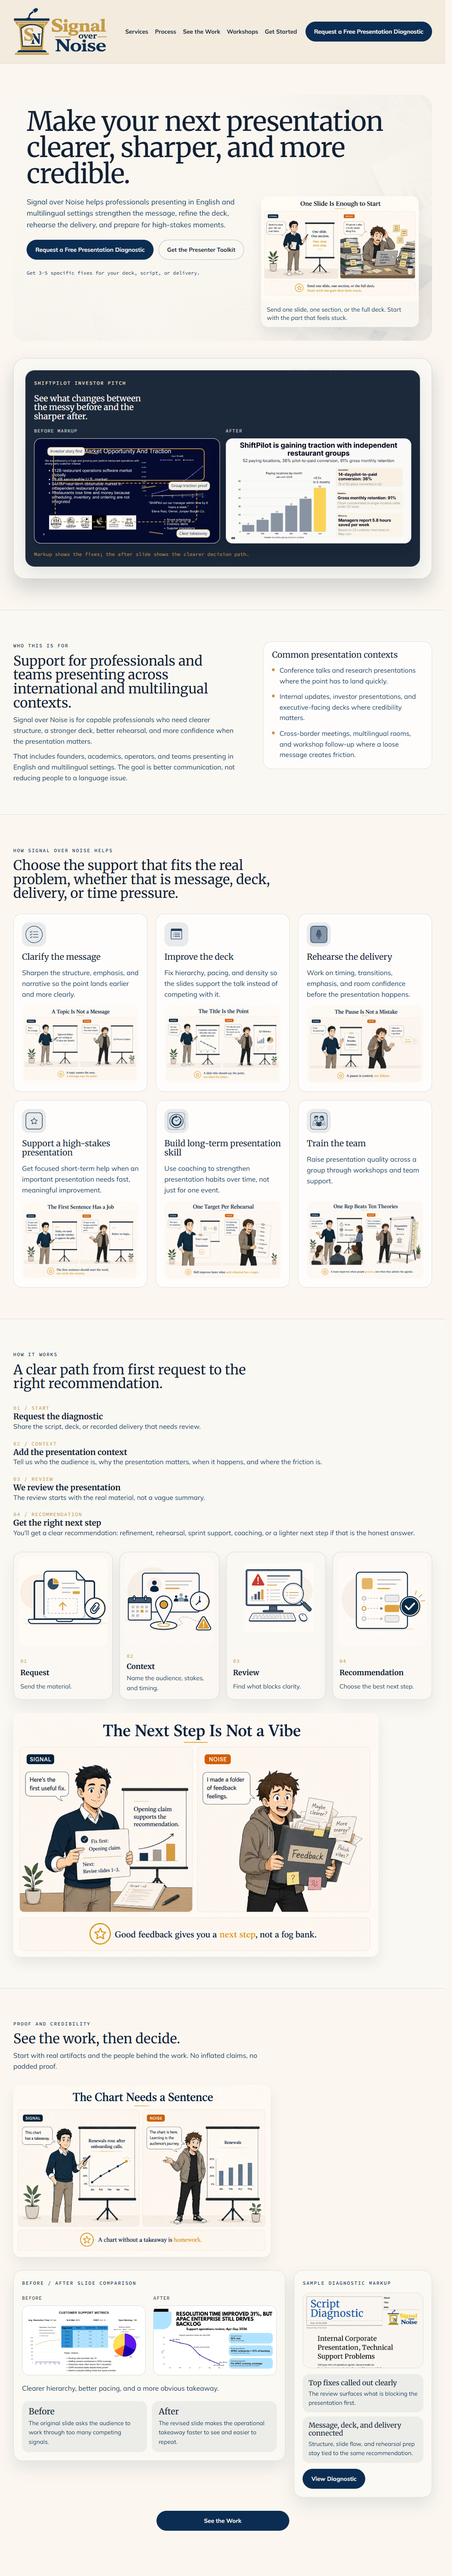
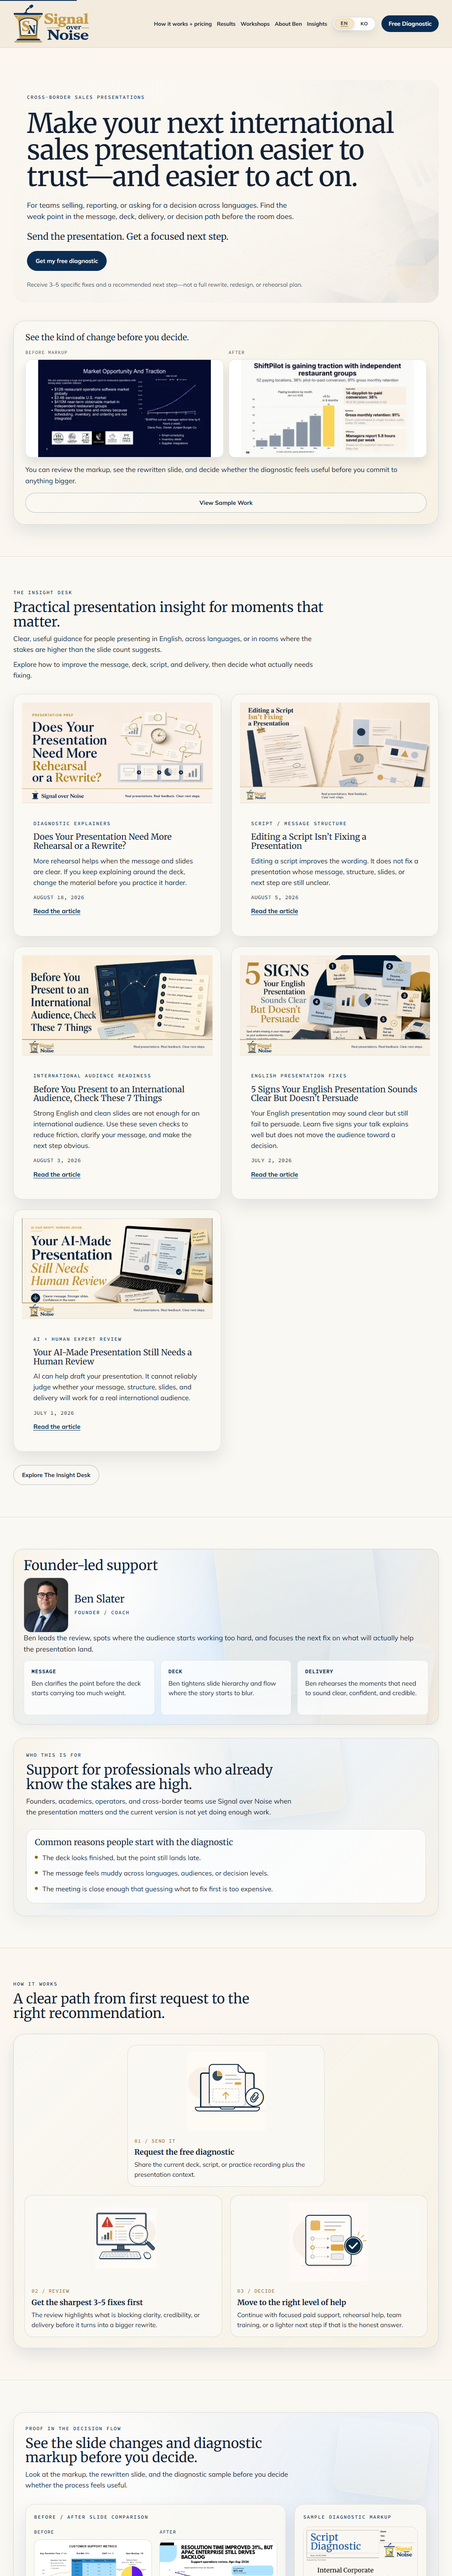
Publish AI presentation decision clarity insight

Changed region(s): [[0.0312, 0.0, 0.9679, 1.0], [0.843, 0.965, 0.8742, 0.9961]]

diff --git a/assets/styles.css b/assets/styles.css
@@ -819,13 +819,11 @@
     box-shadow: 0 14px 32px rgba(11, 45, 83, 0.06);
   }
 
-  .section-stage--light .eyebrow--gold-deep {
-    color: var(--brand-blue-deep);
-  }
-
-  .section-stage--light .section-title,
-  .section-stage--light .section-copy {
-    color: var(--text-primary);
+  aside.cta-band.section-stage--light .eyebrow,
+  aside.cta-band.section-stage--light .eyebrow--gold-deep,
+  aside.cta-band.section-stage--light h2.section-title,
+  aside.cta-band.section-stage--light p.section-copy {
+    color: #0b2d53 !important;
   }
 
   .section-stage--light::before {
@@ -1295,6 +1293,13 @@
   .band-copy,
   .meta-copy {
     color: var(--text-secondary);
+  }
+
+  main .cta-band.section-stage--light .eyebrow,
+  main .cta-band.section-stage--light .eyebrow--gold-deep,
+  main .cta-band.section-stage--light .section-title,
+  main .cta-band.section-stage--light .section-copy {
+    color: #0b2d53 !important;
   }
 
   .hero-copy {

diff --git a/content/insights/ai-presentation-decision-visible.md b/content/insights/ai-presentation-decision-visible.md
@@ -1,0 +1,269 @@
+---
+title: "AI Can Make Your Presentation Fluent Without Making the Decision Visible"
+description: "A presentation can sound polished and still leave the audience unsure what to decide, approve, or do. Check the decision path before polishing the wording."
+date: 2026-09-21
+updated:
+draft: false
+slug: ai-presentation-decision-visible
+
+tags:
+  - insights
+
+category: "AI + Human Expert Review"
+
+topics:
+  - ai-presentation-review
+  - presentation-decision-clarity
+  - pitch-and-proposal-clarity
+  - human-expert-review
+
+audience:
+  primary: "Professionals preparing high-stakes presentations in English or across languages"
+  secondary:
+    - "Founders and operators preparing proposals or investor presentations"
+    - "Korean companies and startups presenting to international audiences"
+    - "Teams using AI to help draft presentations"
+
+contentType: "insight"
+series:
+featured: false
+
+businessPurpose:
+  - trust-building
+  - diagnostic-conversion
+  - search-visibility
+  - answer-visibility
+
+searchIntent: "Help presenters tell whether an AI-assisted or polished presentation makes the audience's decision and next action visible."
+primaryKeyword: "presentation decision clarity"
+secondaryKeywords:
+  - AI presentation human review
+  - how to make the ask clear in a presentation
+  - presentation review checklist
+  - AI-generated presentation review
+
+answerVisibility:
+  audienceQuestions:
+    - "Can AI make a presentation sound polished but still unclear?"
+    - "How do I know if my presentation makes the decision visible?"
+    - "What should the audience be able to decide after my presentation?"
+  shortAnswer: "Yes. A presentation can have fluent wording, accurate context, and clean slides while burying the recommendation or next action. Human review checks whether the audience can see what matters, what is being recommended, and what happens next."
+  keyEntities:
+    - AI presentation review
+    - presentation decision clarity
+    - human presentation review
+    - Free Presentation Diagnostic
+  snippetTargets:
+    - short answer
+    - buried-ask versus visible-ask example
+    - decision-visibility check
+  relatedQueries:
+    - How do I make the ask clear in a presentation?
+    - How do I review an AI-generated presentation?
+    - Why is my presentation polished but not persuasive?
+
+primaryCTA:
+  label: "Get a Free Presentation Diagnostic"
+  url: "/diagnostic/"
+  type: "diagnostic"
+
+secondaryCTA:
+  label:
+  url:
+  type:
+
+proofNeeded:
+  - "Use conceptual examples only. Do not present the before-and-after as client work or claim a measured business result."
+
+claimRisks:
+  - "Do not imply that AI cannot produce clear presentations; the point is that fluency does not guarantee decision visibility."
+  - "Not every presentation has a formal approval ask. The relevant next action may be a decision, discussion, alignment, test, or preparation step."
+  - "The decision-visibility check is a practical editorial heuristic, not a validated scorecard."
+  - "Do not imply that the Free Presentation Diagnostic includes a full rewrite, deck redesign, live call, fixed turnaround, or guaranteed outcome."
+
+skillChecksNeeded:
+  - "son-content-qa"
+  - "son-image-director"
+  - "son-11ty-search-answer-formatter"
+
+heroImage:
+  src: "/assets/images/insights/ai-presentation-decision-visible/hero.webp"
+  alt: "A human reviewer comparing a polished presentation with a clearer decision path on a presentation review desk."
+  caption:
+  promptId: "son-insights-hero-ai-presentation-decision-visible-v1"
+  brandTreatment: "son-official-logo-and-tagline-lockup-v2"
+
+ogImage:
+  src: "/assets/images/insights/ai-presentation-decision-visible/og.webp"
+  alt: "Signal over Noise graphic about why a fluent presentation still needs human review for decision clarity."
+  promptId: "son-insights-og-ai-presentation-decision-visible-v1"
+  brandTreatment: "son-official-logo-and-tagline-lockup-v2"
+
+imagePlan:
+  count: 4
+  rationale: "A focused hero, OG, and two specific slide mockups make the article’s buried-ask versus visible-ask contrast concrete without inventing client material or adding decorative stock imagery."
+  required:
+    - hero
+    - og
+    - inline-01
+    - inline-02
+
+inlineImagePlans:
+  - src: "/assets/images/insights/ai-presentation-decision-visible/inline-01.webp"
+    placement: "Immediately after the buried-ask example"
+    format: "16:9 standalone slide mockup"
+    title: "Regional expansion options for the next two quarters"
+    supportingText: "This proposal explores several options for improving regional expansion over the next two quarters."
+    disclosure: "ILLUSTRATIVE EXAMPLE — NOT CLIENT WORK"
+    alt: "Illustrative proposal slide showing three equal-weight regional expansion options with no visible recommendation."
+  - src: "/assets/images/insights/ai-presentation-decision-visible/inline-02.webp"
+    placement: "Immediately after the visible-ask example"
+    format: "16:9 standalone slide mockup"
+    title: "We recommend Option B for the next two quarters."
+    supportingText: "Today we need approval to begin the pilot."
+    disclosure: "ILLUSTRATIVE EXAMPLE — NOT CLIENT WORK"
+    alt: "Illustrative proposal slide highlighting Option B as the recommendation and making approval to begin the pilot explicit."
+
+structuredData:
+  type: "BlogPosting"
+  includeArticleSchema: true
+  includeFAQSchema: false
+
+repurposing:
+  companionFile: "editorial/repurposing/ai-presentation-decision-visible.repurpose.md"
+---
+
+# AI Can Make Your Presentation Fluent Without Making the Decision Visible
+
+AI can make a presentation sound finished.
+
+It can smooth the grammar, clean up the transitions, and turn rough notes into professional paragraphs. Suddenly the deck has the surface of competence.
+
+That is useful. It is not the same as making the decision visible.
+
+A presentation can be fluent, accurate, and visually tidy while leaving the audience unsure what they are meant to decide, approve, fund, discuss, test, or do next.
+
+The wording is polished. The judgment is still hiding in the furniture.
+
+The broader case for human review is covered in [Your AI-Made Presentation Still Needs a Human Review](/insights/ai-made-presentation-human-review/). This article starts with one narrower question: can the audience see what needs deciding?
+
+## Fluency is not the same as a usable decision path
+
+When people review an AI-assisted presentation, they often start with the language:
+
+- Is the grammar correct?
+- Does this sound professional?
+- Are the transitions smooth?
+- Does the tone feel confident?
+
+Those questions matter. They are not the whole review.
+
+The question I would put first is:
+
+> **What should the audience be able to decide after this presentation?**
+
+That does not always mean formal approval. The audience may need to choose an option, align on a direction, agree to a test, or identify the next question.
+
+Not every presentation needs a hard sell. The audience does need to know what they are meant to do with the information.
+
+## A polished presentation can still bury the ask
+
+Consider this illustrative example:
+
+> **Buried ask:** “This proposal explores several options for improving regional expansion over the next two quarters.”
+
+![Illustrative proposal slide showing three equal-weight regional expansion options with no visible recommendation.](/assets/images/insights/ai-presentation-decision-visible/inline-01.webp)
+
+*Illustrative example, not client work.*
+
+It sounds reasonable. It may even be accurate. But the audience still has to work out what the presentation is asking them to do.
+
+Now make the judgment visible:
+
+> **Visible ask:** “We recommend Option B for the next two quarters. Today we need approval to begin the pilot.”
+
+![Illustrative proposal slide highlighting Option B as the recommendation and making approval to begin the pilot explicit.](/assets/images/insights/ai-presentation-decision-visible/inline-02.webp)
+
+*Illustrative example, not client work.*
+
+The second version is not fancier. It gives the audience a clearer path:
+
+1. There is a recommendation.
+2. The recommendation is attached to a time frame.
+3. The audience knows what is needed now.
+
+You do not need to make every slide louder or turn every meeting into a vote. Just do not make the audience reverse-engineer your conclusion from the evidence.
+
+## Three places where human review still matters
+
+### 1. The title describes the topic instead of the point
+
+AI will happily give you titles such as:
+
+- Regional expansion options
+- Customer feedback overview
+- Project update
+- Q3 performance review
+
+These titles tell the audience what the material is about. They do not tell them why it matters.
+
+A more useful title might say:
+
+- **Option B gives us the lowest-risk path into the next region**
+- **New users are getting stuck before the first useful action**
+- **We need a scope decision before the deadline moves**
+
+These are illustrative examples, not magic formulas. The test is simple: can the audience see the direction of the argument before the explanation begins?
+
+### 2. Every option is given equal weight
+
+A deck can present three options in three identical cards with three identical headings, then reveal the recommendation somewhere near the end.
+
+Now the audience has to do the prioritising for you.
+
+If one option is recommended, show it. Explain the other options if they matter, but do not give them equal weight when the decision is not actually balanced.
+
+Equal visual weight can make every option look equally important. That may be tidy design. It is not always useful decision support.
+
+### 3. The evidence arrives before the audience knows what it is for
+
+Background, data, process detail, and context all have a place. The problem is where they arrive.
+
+If the audience sees ten slides of evidence before they know which question the evidence is meant to answer, they have to hold the entire investigation in their head while waiting for the conclusion.
+
+Give the evidence a job early:
+
+> “We are recommending Option B. The next three slides explain why it gives us the strongest balance of speed, cost, and implementation risk.”
+
+Now the audience knows what to look for. The detail has somewhere to land.
+
+## Run a short decision-visibility check
+
+Before you spend another hour polishing the wording, try this five-minute check:
+
+1. Write the audience’s likely next decision or action in one sentence.
+2. Mark the first place in the deck where the recommendation or main point becomes visible.
+3. Circle any slide where the audience has to choose between options without guidance.
+4. Write down the two or three pieces of evidence the audience actually needs before acting.
+5. Read the opening and ending aloud. Do they point to the same decision path?
+
+If you cannot answer the first question, the presentation may still be deciding what it wants from the audience.
+
+If the recommendation appears only at the end, ask whether the earlier slides are building useful understanding or simply delaying the point.
+
+If the opening and ending ask for different things, the problem is not your transitions. The presentation needs a clearer job.
+
+## Human review checks more than wording
+
+AI can help with drafting. It can help you find a cleaner sentence, a shorter transition, or a more consistent structure.
+
+Human review asks a different set of questions:
+
+- What judgment is this presentation making?
+- What does the audience need to understand before that judgment feels reasonable?
+- Which options deserve attention, and which are background?
+- What should the audience be able to do when the presentation ends?
+
+When the presentation matters, “technically clear” is not enough. It still needs to be easier to trust, easier to follow, and easier to act on.
+
+If you are not sure whether the problem is the wording, the structure, the slides, or the decision path, start with the current material. Send it for a [Free Presentation Diagnostic](/diagnostic/). You will get focused feedback on what to improve first and the recommended next step.
